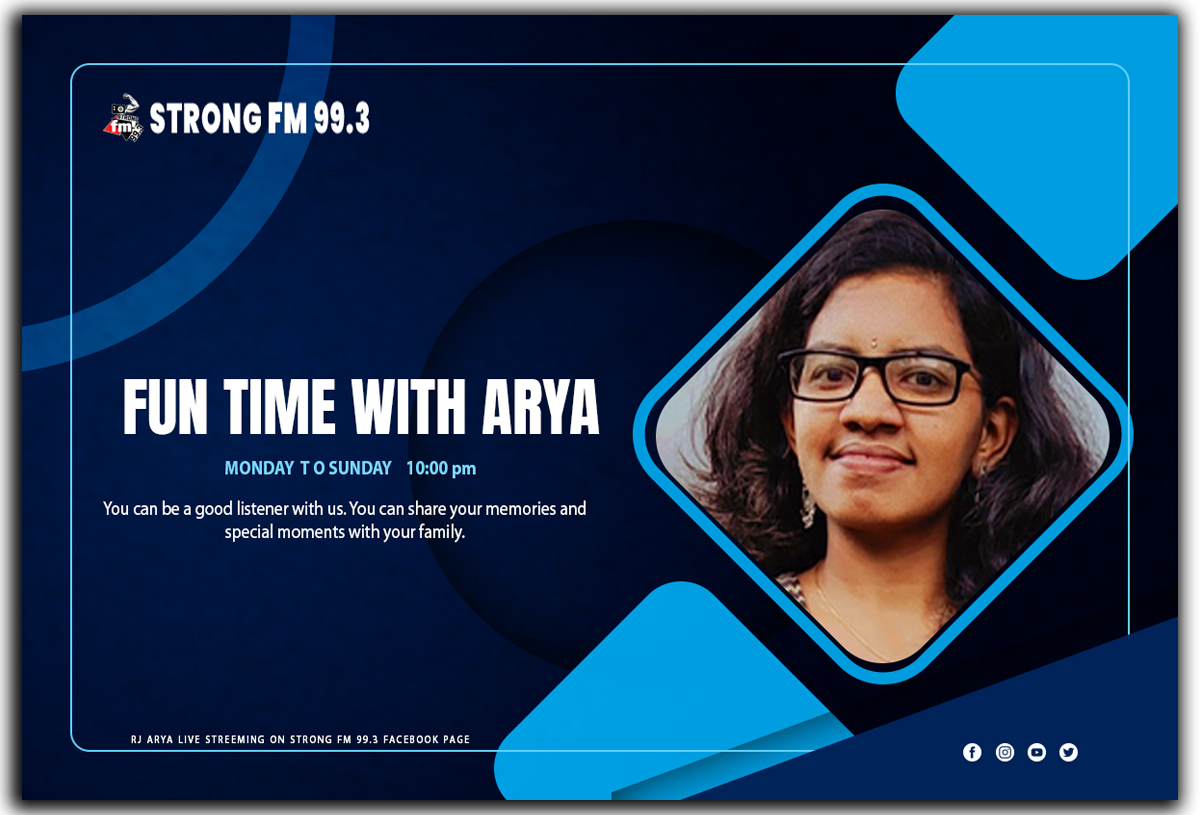
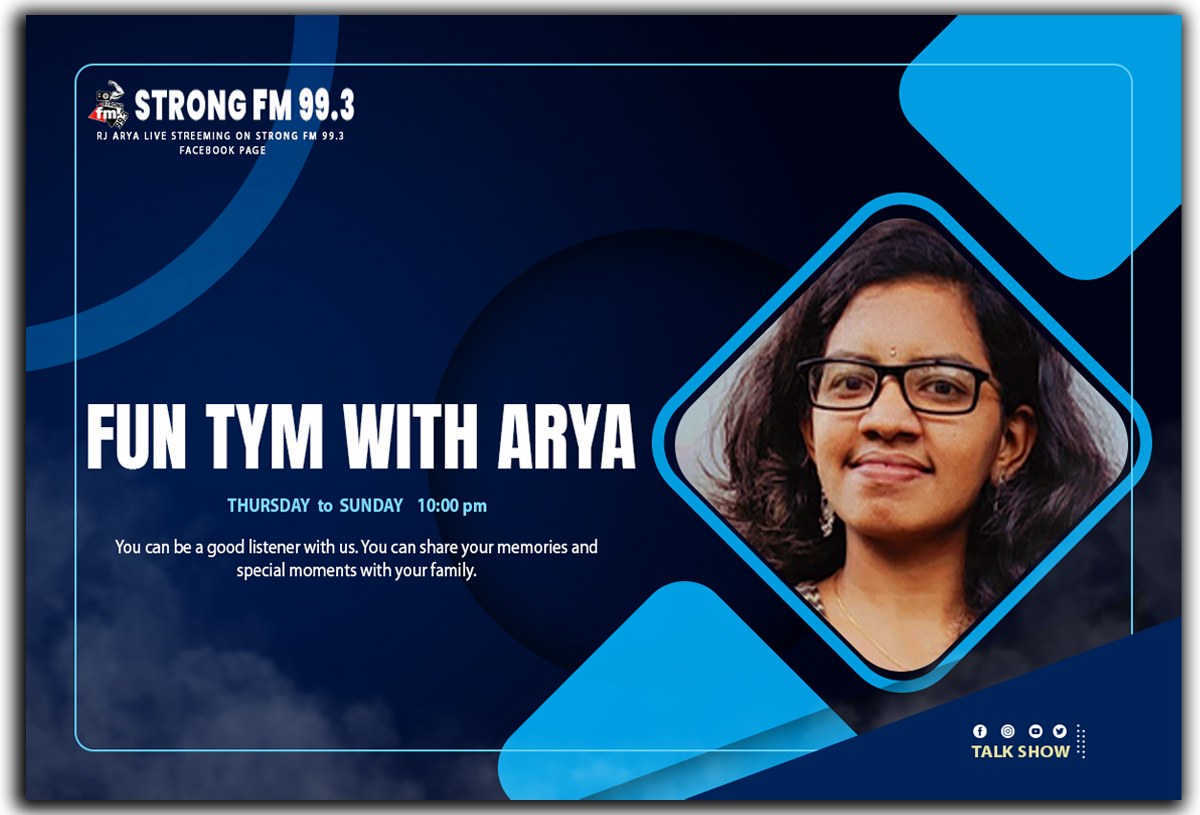
contat updat

diff --git a/index.html b/index.html
@@ -189,8 +189,8 @@
           <div class="service-box">
             <img id="img" class="progrm-imag img-fluid" src="images/rj-arya.jpg" >
             <div class="names">
-              <h4 class="program-name font-weight-bold pt-4">FUN TIME WITH ARYA</h4>
-              <p class="program-time text-uppercase">monday to friday 10:00 pm</p>
+              <h4 class="program-name text-uppercase font-weight-bold pt-4">FUN tym WITH ARYA</h4>
+              <p class="program-time text-uppercase">Thursday To Sunday 10:00 pm</p>
             </div>
 
           </div>
@@ -200,52 +200,31 @@
             <img id="img" class="progrm-imag img-fluid" src="images/ANJALI.jpg">
             <div class="names">
               <h4 class="program-name font-weight-bold pt-4">KOCHUVARTHAMANAM</h4>
-              <p class="program-time text-uppercase">monday to friday 10:00 pm</p>
+              <p class="program-time text-uppercase">Friday to Sunday 09:00 pm</p>
             </div>
           </div>
         </div>
         <div class="col-lg-4 col-md-6 pt-2 pb-4">
           <div class="service-box">
-            <img id="img" class="progrm-imag img-fluid" src="images/rj-arya.jpg">
+            <img id="img" class="progrm-imag img-fluid" src="images/rj-shyam.jpg">
 
             <div class="names">
-              <h4 class="program-name font-weight-bold pt-4">SAHAYATHRIKA</h4>
-              <p class="program-time text-uppercase">monday to friday 10:00 pm</p>
+              <h4 class="program-name text-uppercase font-weight-bold pt-4">Strong coffee</h4>
+              <p class="program-time text-uppercase">Monday to wednesday 09:00 pm</p>
             </div>
           </div>
         </div>
         <div class="col-lg-4 col-md-6 pt-2 pb-4">
           <div class="service-box">
-            <img id="img" class=" progrm-imag img-fluid" src="images/rj-arya.jpg">
+            <img id="img" class=" progrm-imag img-fluid" src="images/kalyani.jpg">
 
             <div class="names">
-              <h4 class="program-name font-weight-bold pt-4">NIHARAM PEYYUMBOL</h4>
-              <p class="program-time text-uppercase">monday to friday 10:00 pm</p>
+              <h4 class="program-name text-uppercase font-weight-bold pt-4">Story Junction</h4>
+              <p class="program-time text-uppercase">Monday to wednesday 10:00 pm</p>
             </div>
           </div>
         </div>
 
-        <div class="col-lg-4 col-md-6 pt-2 pb-4">
-          <div class="service-box">
-            <img id="img" class="progrm-imag img-fluid" src="images/rj-arya.jpg">
-
-            <div class="names">
-              <h4 class="program-name font-weight-bold pt-4">NIHARAM PEYYUMBOL</h4>
-              <p class="program-time text-uppercase">monday to friday 10:00 pm</p>
-            </div>
-          </div>
-        </div>
-
-        <div class="col-lg-4 col-md-6 pt-2 pb-4">
-          <div class="service-box">
-            <img id="img" class="progrm-imag img-fluid" src="images/rj-arya.jpg">
-
-            <div class="names">
-              <h4 class="program-name font-weight-bold pt-4">SAHAYATHRIKA</h4>
-              <p class="program-time text-uppercase">monday to friday 10:00 pm</p>
-            </div>
-          </div>
-        </div>
 
        
 

diff --git a/programs.html b/programs.html
@@ -167,10 +167,10 @@
 
                     <div id="shedul-sectin" class="col-lg-4 col-md-6 col-sm-12 pt-2 ">
                         <div class="service-box">
-                            <img id="img" class="img-fluid" src="images/rj 11 copy.png">
+                            <img id="img" class="img-fluid" src="images/rj-shyam.jpg">
                             <div class="names">
-                                <h4 id="progrm-page-sheduld-section-rjname" class="font-weight-bold pt-4"> RJ ARYA</h4>
-                                <p class="program-time text-uppercase">FUN TYME WITH ARYA</p>
+                                <h4 id="progrm-page-sheduld-section-rjname text-uppercase" class="font-weight-bold pt-4">RJ ShyamDas</h4>
+                                <p class="program-time text-uppercase">Strong coffee</p>
                             </div>
 
                         </div>
@@ -178,32 +178,10 @@
 
                     <div id="shedul-sectin" class="col-lg-4 col-md-6 col-sm-12 pt-2 ">
                         <div class="service-box">
-                            <img id="img" class="img-fluid" src="images/rj 11 copy.png">
+                            <img id="img" class="img-fluid" src="images/kalyani.jpg">
                             <div class="names">
-                                <h4 id="progrm-page-sheduld-section-rjname" class="font-weight-bold pt-4"> RJ ARYA</h4>
-                                <p class="program-time text-uppercase">FUN TYME WITH ARYA</p>
-                            </div>
-
-                        </div>
-                    </div>
-
-                    <div id="shedul-sectin" class="col-lg-4 col-md-6 col-sm-12 pt-2 ">
-                        <div class="service-box">
-                            <img id="img" class="img-fluid" src="images/rj 11 copy.png">
-                            <div class="names">
-                                <h4 id="progrm-page-sheduld-section-rjname" class="font-weight-bold pt-4"> RJ ARYA</h4>
-                                <p class="program-time text-uppercase">FUN TYME WITH ARYA</p>
-                            </div>
-
-                        </div>
-                    </div>
-
-                    <div id="shedul-sectin" class="col-lg-4 col-md-6 col-sm-12 pt-2 ">
-                        <div class="service-box">
-                            <img id="img" class="img-fluid" src="images/rj 11 copy.png">
-                            <div class="names">
-                                <h4 id="progrm-page-sheduld-section-rjname" class="font-weight-bold pt-4"> RJ ARYA</h4>
-                                <p class="program-time text-uppercase">FUN TYME WITH ARYA</p>
+                                <h4 id="progrm-page-sheduld-section-rjname text-uppercase" class="font-weight-bold pt-4"> RJ Kalyani</h4>
+                                <p class="program-time text-uppercase">Story Junction</p>
                             </div>
 
                         </div>
